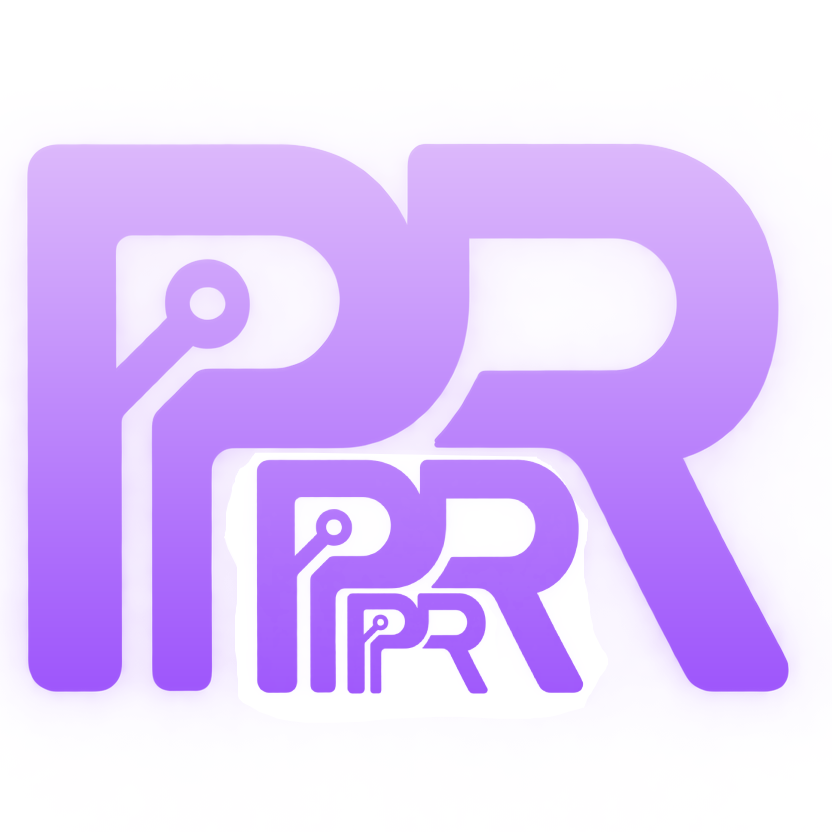
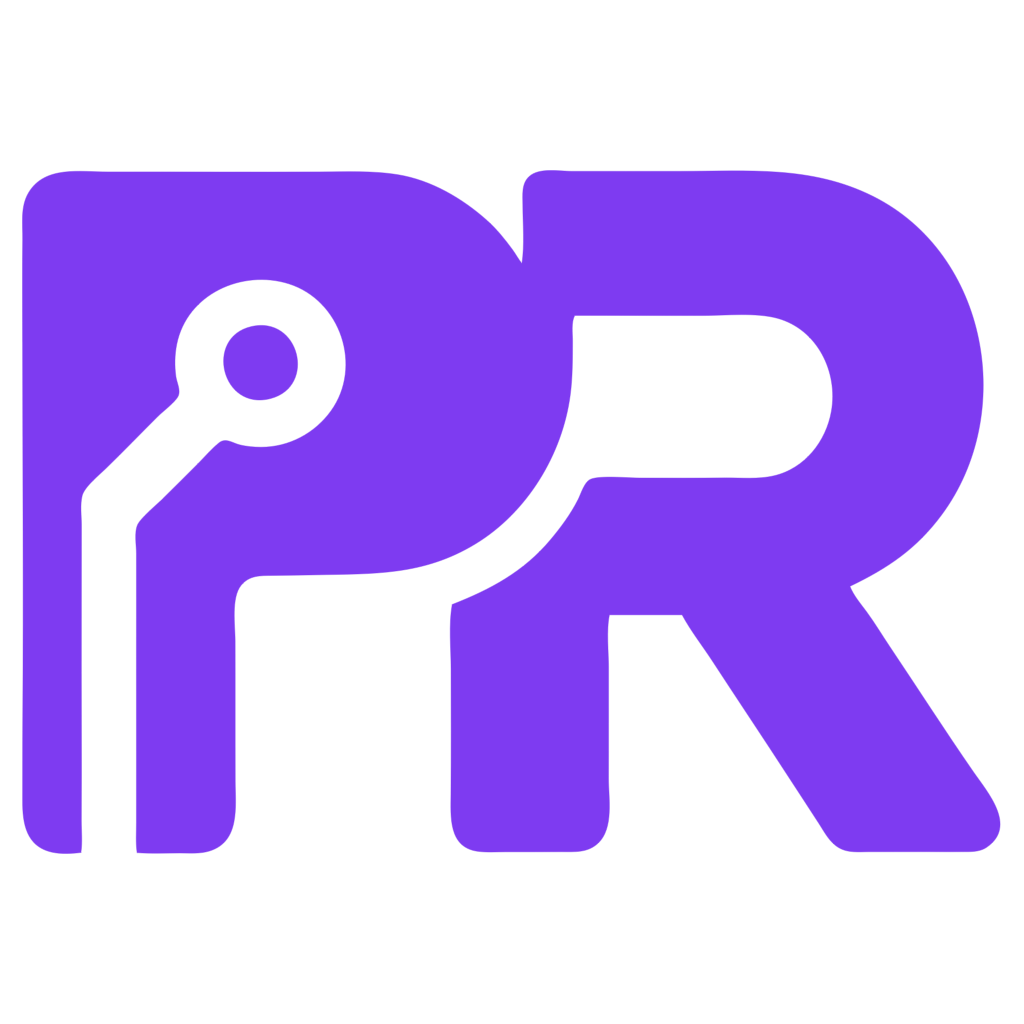
feat: introduce 9 files
- add .DS_Store
- modify README.md (+169 -54)
- modify assets/premento-icon.png
- add screenshots/ask.png
- add screenshots/intent.png
- add screenshots/overview-dark.png
- add screenshots/overview-light.png
- add screenshots/risk-review.png
- add screenshots/service-map.png

diff --git a/README.md b/README.md
@@ -1,47 +1,111 @@
-# PRemento — PR review copilot
+<div align="center">
 
-A native Rust desktop app (egui) that lists the open GitHub pull requests where you are
-**assignee** or **reviewer** (review requested, or already reviewed). It runs an AI review of any
-PR with the LLM CLI you already have on your machine: Claude Code, Codex, Gemini CLI, Ollama, or
-any other command.
+<img src="assets/premento-icon.png" alt="PRemento logo" width="96" height="96">
 
-Each analysis has three parts:
+# PRemento
+
+**Your pull request review copilot.**
+
+A native Rust desktop app that gathers the GitHub PRs waiting on you and reviews them with the LLM CLI you already use:
+Claude Code, Codex, Gemini CLI, Ollama, or any other command.
+
+![Rust](https://img.shields.io/badge/Rust-2024-orange?logo=rust)
+![egui](https://img.shields.io/badge/UI-egui-8A5CF6)
+![Platforms](https://img.shields.io/badge/platform-macOS%20%7C%20Linux-lightgrey)
+
+<picture>
+  <source media="(prefers-color-scheme: dark)" srcset="docs/screenshots/overview-dark.png">
+  <source media="(prefers-color-scheme: light)" srcset="docs/screenshots/overview-light.png">
+  <img alt="PRemento: PR list on the left, Overview of a critical-risk PR on the right" src="docs/screenshots/overview-dark.png">
+</picture>
+
+</div>
+
+---
+
+## Contents
+
+- [Why PRemento](#why-premento)
+- [Features](#features)
+- [Quick start](#quick-start)
+- [Usage](#usage)
+- [Configuration](#configuration)
+- [Risk score](#risk-score)
+- [Service map](#service-map)
+- [Privacy: what is sent to the LLM](#privacy-what-is-sent-to-the-llm)
+- [Development](#development)
+
+## Why PRemento
+
+- **One inbox for reviews.** Lists every open PR where you are **assignee** or **reviewer** (review requested, or already reviewed), with a risk badge on each.
+- **Bring your own LLM.** No API keys to set up. PRemento runs the CLI already on your machine.
+- **Know where to look first.** A risk score that you can explain, the risky spots with file paths, and the questions to ask the author.
+- **Ask follow-up questions.** A Claude Code or Codex session opens next to the PR, with the diff and the review already in its folder.
+- **No token setup.** Every GitHub call goes through [`gh`](https://cli.github.com/).
+
+## Features
+
+Each analysis opens on an **Overview** tab that sums up the tabs below.
 
 | Tab | What you get |
 |---|---|
-| **Risk-Based Review** | Risk score computed from complexity, worst case and audience (see [Risk score](#risk-score)), how deep to review, and risk factors with severity, files and what to verify |
-| **Intent & Decision Log** | What the PR says it does and what the code actually does, whether they match, the design decisions taken (why, alternatives, source), and questions to ask the author |
-| **Service Map** (attraction-inc PRs) | The attraction-inc architecture as a map, with each impacted service highlighted: **direct** (its code or config changes) or **indirect** (affected through a connection), colored by severity, with the reason |
+| **Risk Review** | A [risk score](#risk-score) computed from complexity, worst case and audience, how deep to review, and risk factors with severity, files and what to verify |
+| **Intent & Decisions** | What the PR says it does vs. what the code actually does, whether they match, the design decisions taken (why, alternatives, source) and questions to ask the author |
+| **Service Map** (attraction-inc PRs) | The attraction-inc architecture as a map, with each impacted service highlighted as **direct** (its code or config changes) or **indirect** (affected through a connection), colored by severity |
 | **Impact Analysis** (other repos) | Affected components, breaking changes, downstream effects, data/migrations, security, performance, test coverage and suggested tests |
+| **Ask** | A terminal built into the tab, running Claude Code or Codex in a folder that holds the PR and its review |
 
-The **Overview** tab sums these up.
+<table>
+  <tr>
+    <td width="50%"><b>Risk Review</b><br><img src="docs/screenshots/risk-review.png" alt="Risk Review tab"></td>
+    <td width="50%"><b>Intent & Decisions</b><br><img src="docs/screenshots/intent.png" alt="Intent and Decisions tab"></td>
+  </tr>
+  <tr>
+    <td width="50%"><b>Service Map</b><br><img src="docs/screenshots/service-map.png" alt="Service Map tab"></td>
+    <td width="50%"><b>Ask</b><br><img src="docs/screenshots/ask.png" alt="Ask tab with an embedded terminal session"></td>
+  </tr>
+</table>
 
-The **Ask** tab runs Claude Code or Codex in a terminal built into the tab, in a folder holding the
-PR (description, commits, discussion and diff, fetched when you start) and its review, so you can ask
-questions about it. It uses the tool and model picked above the tabs. Click the terminal to type;
-drag to select and Cmd+C to copy, Cmd+V to paste, the mouse wheel scrolls back. Sessions keep running
-when you switch tabs or PRs; **End** stops one. **Open in Terminal app** runs the same session in a
-separate terminal instead. The folder is kept per PR (`~/Library/Caches/memento/ask/<pr>`), so
-`claude --continue` or `codex resume --last` there picks up the last conversation. Codex runs in a
-read-only sandbox. The first time, Claude Code asks whether to trust the folder.
+<sub>Screenshots are rendered from demo data. See [Development](#development).</sub>
 
-## Requirements
+## Quick start
+
+**Requirements**
 
 - Rust (edition 2024)
-- [`gh`](https://cli.github.com/), logged in (`gh auth login`). PRemento uses it for every GitHub call, so it needs no token setup of its own.
+- [`gh`](https://cli.github.com/), logged in with `gh auth login`
 - At least one LLM CLI on your `PATH` (`claude`, `codex`, `gemini`, `ollama`, …)
 
-## Run
+**Run**
 
 ```bash
+git clone https://github.com/LoukaG/premento.git && cd premento
 cargo run --release
 ```
 
-- **⟳ Refresh** reloads the PR list. Filter it with *All / Assigned / Reviewer* or the search box.
-- To analyze a PR, select it, choose a tool and a model (e.g. Claude Code with `fable`, `opus`, `sonnet` or `haiku`; **Other…** to type any model name) and click **🔍 Analyze**. Analyses run in the background, so you can start several at once, and **Cancel** stops one.
-- Results are cached on disk and appear again on the next launch. The list shows each PR's risk badge.
+## Usage
 
-Headless mode prints the analysis as JSON:
+### Desktop app
+
+1. **⟳ Refresh** loads your PRs. Filter them with *All / Assigned / Reviewer* or the search box.
+2. Select a PR, choose a **Tool** and a **Model** (e.g. Claude Code with `fable`, `opus`, `sonnet` or `haiku`; **Other…** to type any model name).
+3. Click **🔍 Analyze**. Analyses run in the background, so you can start several at once. **Cancel** stops one.
+
+Results are cached on disk and appear again on the next launch.
+
+### Ask tab
+
+The **Ask** tab runs Claude Code or Codex in a folder holding the PR (description, commits, discussion and diff, fetched when you start) and its review. It uses the tool and model picked above the tabs.
+
+- Click the terminal to type. Drag to select, **Cmd+C** to copy, **Cmd+V** to paste, and the mouse wheel scrolls back.
+- Sessions keep running when you switch tabs or PRs. **End** stops one.
+- **Open in Terminal app** runs the same session in a separate terminal instead.
+- The folder is kept per PR (`~/Library/Caches/memento/ask/<pr>`), so `claude --continue` or `codex resume --last` there picks up the last conversation.
+- Codex runs in a read-only sandbox. The first time, Claude Code asks whether to trust the folder.
+
+### Headless mode
+
+Prints the analysis as JSON, useful for scripts and CI:
 
 ```bash
 cargo run --release -- analyze owner/repo#123 "Claude Code" haiku   # model is optional
@@ -49,9 +113,14 @@ cargo run --release -- analyze owner/repo#123 "Claude Code" haiku   # model is o
 
 ## Configuration
 
-On first run, a config file is written to `~/Library/Application Support/memento/config.toml` (macOS) or `~/.config/memento/config.toml` (Linux):
+On first run, a config file is written to:
 
-PRemento retains the original `memento` settings and cache directories so existing configurations and reviews remain available.
+| OS | Path |
+|---|---|
+| macOS | `~/Library/Application Support/memento/config.toml` |
+| Linux | `~/.config/memento/config.toml` |
+
+> PRemento keeps the original `memento` settings and cache directories, so existing configs and reviews stay available.
 
 ```toml
 default_provider = "Claude Code"
@@ -75,50 +144,86 @@ stdin = true
 model_args = ["-m", "{model}"]
 ```
 
+<details>
+<summary><b>Providers and placeholders</b></summary>
+
 The prompt is sent to the provider on stdin. Three placeholders can appear in `args`:
-`{prompt_file}` (a file containing the prompt), `{output_file}` (when present, the answer is
-read from this file instead of stdout) and `{model_args}` (where the model args go; without it they
-are put first). Add a `[[providers]]` block for any other tool.
 
-**Ask tab.** `chat_args` are the args for an interactive session, with `{prompt}` (the opening
-message) and `{model_args}`. Claude Code and Codex have built-in defaults; set `chat_args = []` to hide
-a tool from the Ask tab. The terminal opened is Terminal.app on macOS and `x-terminal-emulator` on
-Linux; set e.g. `terminal = ["open", "-a", "iTerm", "{script}"]` to use another one.
+| Placeholder | Meaning |
+|---|---|
+| `{prompt_file}` | A file containing the prompt |
+| `{output_file}` | When present, the answer is read from this file instead of stdout |
+| `{model_args}` | Where the model args go. Without it, they are put first |
 
-**Models.** A provider with `model_args` gets a Model picker: **Default** (the tool's own default,
-or `default_model` if set), each entry of `models`, or **Other…** to type any model name. When
-Default is picked and there is no `default_model`, no model args are passed. The model used is shown
-with each analysis (e.g. `Claude Code · haiku`). Config files written by earlier versions get these
-options automatically, as long as the provider's `args` were not edited.
+Add a `[[providers]]` block for any other tool.
+
+</details>
+
+<details>
+<summary><b>Models</b></summary>
+
+A provider with `model_args` gets a Model picker: **Default** (the tool's own default, or `default_model` if set), each entry of `models`, or **Other…** to type any model name. When Default is picked and there is no `default_model`, no model args are passed.
+
+The model used is shown with each analysis (e.g. `Claude Code · haiku`). Config files written by earlier versions get these options automatically, as long as the provider's `args` were not edited.
+
+</details>
+
+<details>
+<summary><b>Ask tab and terminal</b></summary>
+
+`chat_args` are the args for an interactive session, with `{prompt}` (the opening message) and `{model_args}`. Claude Code and Codex have built-in defaults. Set `chat_args = []` to hide a tool from the Ask tab.
+
+The external terminal is Terminal.app on macOS and `x-terminal-emulator` on Linux. To use another one:
+
+```toml
+terminal = ["open", "-a", "iTerm", "{script}"]
+```
+
+</details>
 
 ## Risk score
 
-The LLM rates three dimensions, and PRemento computes the score from them (`RiskReview::compute` in `src/features/analysis/scoring.rs`):
+The LLM rates three dimensions, and PRemento computes the score from them (`RiskReview::compute` in [`src/features/analysis/scoring.rs`](src/features/analysis/scoring.rs)).
 
 | Dimension | Values |
 |---|---|
-| **Complexity** | 0-10: how hard the change is to get right |
-| **Worst case** | `cosmetic` (1), `feature` (3): one feature stops working, e.g. a preview renders wrong, `core_flow` (7): checkout, payments, orders, data sync, `system_wide` (10): login/auth, whole app crashes, data loss, security |
-| **Audience** | `customer` (×1.0), `partner` (×0.85), `internal` admin/staff (×0.6), `developer` CI/tooling (×0.3) |
+| **Complexity** | 0–10: how hard the change is to get right |
+| **Worst case** | `cosmetic` (1) · `feature` (3): one feature stops working, e.g. a preview renders wrong · `core_flow` (7): checkout, payments, orders, data sync · `system_wide` (10): login/auth, whole app crashes, data loss, security |
+| **Audience** | `customer` (×1.0) · `partner` (×0.85) · `internal` admin/staff (×0.6) · `developer` CI/tooling (×0.3) |
 
-`score = worst_case × audience × (0.6 + 0.4 × complexity / 10)`, then the level is: low < 3.5 ≤ medium < 6 ≤ high < 8 ≤ critical.
+```
+score = worst_case × audience × (0.6 + 0.4 × complexity / 10)
+```
 
-The worst case sets the ceiling and complexity only moves the score within it, so a change that can
-only break one feature (max 3.0) is always low, however complex. A one-line change to customer login
-is 6.8 (high), and a moderately complex one is critical. Cached analyses are re-scored on load;
-ones from before the three dimensions existed keep the score the LLM gave them.
+| Level | Score |
+|---|---|
+| 🟢 low | < 3.5 |
+| 🟡 medium | 3.5 – 6 |
+| 🟠 high | 6 – 8 |
+| 🔴 critical | ≥ 8 |
 
-## What is sent to the LLM
+The worst case sets the ceiling and complexity only moves the score within it. A change that can only break one feature (max 3.0) is always low, however complex. A one-line change to customer login is 6.8 (high), and a moderately complex one is critical.
 
-The PR title, description, labels, branches, commits, changed files, the conversation (comments, reviews and inline review comments) and the diff. The LLM runs in a temporary empty directory.
+Cached analyses are re-scored on load. Ones from before the three dimensions existed keep the score the LLM gave them.
 
 ## Service map
 
-The map of attraction-inc services and their main connections is defined in `src/features/service_map/graph.rs`. It is based on `attraction-inc/workspace` (`ARCHITECTURE.md`, `docker-compose.yml`). When the PR is in attraction-inc, the map is sent to the LLM, which returns `service_impact`. The PR's own repo is always shown as directly impacted. PRs without an AI result use an estimate: the repo's service plus the services that call it.
+The map of attraction-inc services and their main connections is defined in [`src/features/service_map/graph.rs`](src/features/service_map/graph.rs), based on `attraction-inc/workspace` (`ARCHITECTURE.md`, `docker-compose.yml`).
 
-The full map is shown when no PR is selected, and every attraction-inc PR in the list shows the services it impacts. Update `NODES`/`EDGES` in `src/features/service_map/graph.rs` when the architecture changes.
+- When the PR is in attraction-inc, the map is sent to the LLM, which returns `service_impact`.
+- The PR's own repo is always shown as directly impacted.
+- PRs without an AI result use an estimate: the repo's service plus the services that call it.
+- The full map is shown when no PR is selected, and every attraction-inc PR in the list shows the services it impacts.
 
-## Layout
+Update `NODES` / `EDGES` in `graph.rs` when the architecture changes.
+
+## Privacy: what is sent to the LLM
+
+The PR title, description, labels, branches, commits, changed files, the conversation (comments, reviews and inline review comments) and the diff. The LLM runs in a temporary empty directory.
+
+## Development
+
+### Layout
 
 Code is grouped by feature. Each feature folder holds its data, logic, state and views. Shared code lives in `core/` and `ui/`.
 
@@ -144,12 +249,22 @@ src/
     terminal/              terminal emulator widget (alacritty_terminal + PTY): mod.rs, input.rs, paint.rs, palette.rs
 ```
 
-## UI snapshots
+### UI snapshots
 
 The UI can be rendered offscreen with demo data (dark + light, every tab):
 
 ```bash
 MEMENTO_SNAPSHOT_DIR=/tmp/memento-shots cargo test render_screens
 ```
+
+The README screenshots in [`docs/screenshots/`](docs/screenshots) come from this command:
+
+| README file | Snapshot |
+|---|---|
+| `overview-dark.png` / `overview-light.png` | `dark-Overview.png` / `light-Overview.png` |
+| `risk-review.png` | `dark-Risk_Review.png` |
+| `intent.png` | `dark-Intent_&_Decisions.png` |
+| `service-map.png` | `dark-Service_Map.png` |
+| `ask.png` | `dark-ask-running.png` |
 
 A test (`all_ui_glyphs_exist`) also fails if the UI uses a character the bundled fonts cannot draw.
